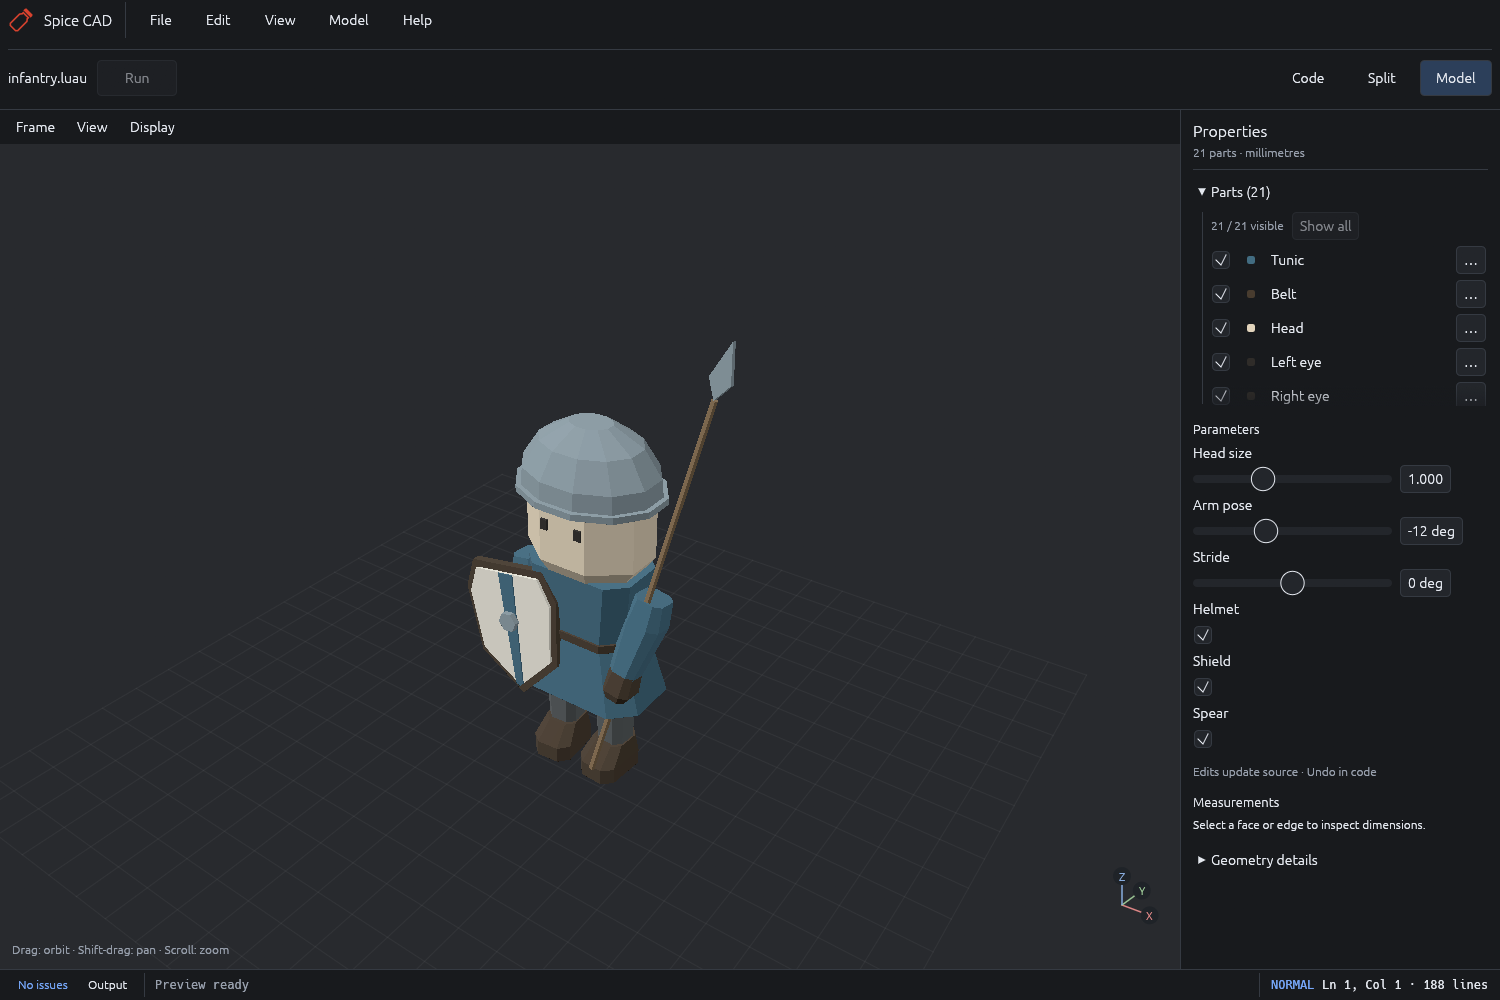
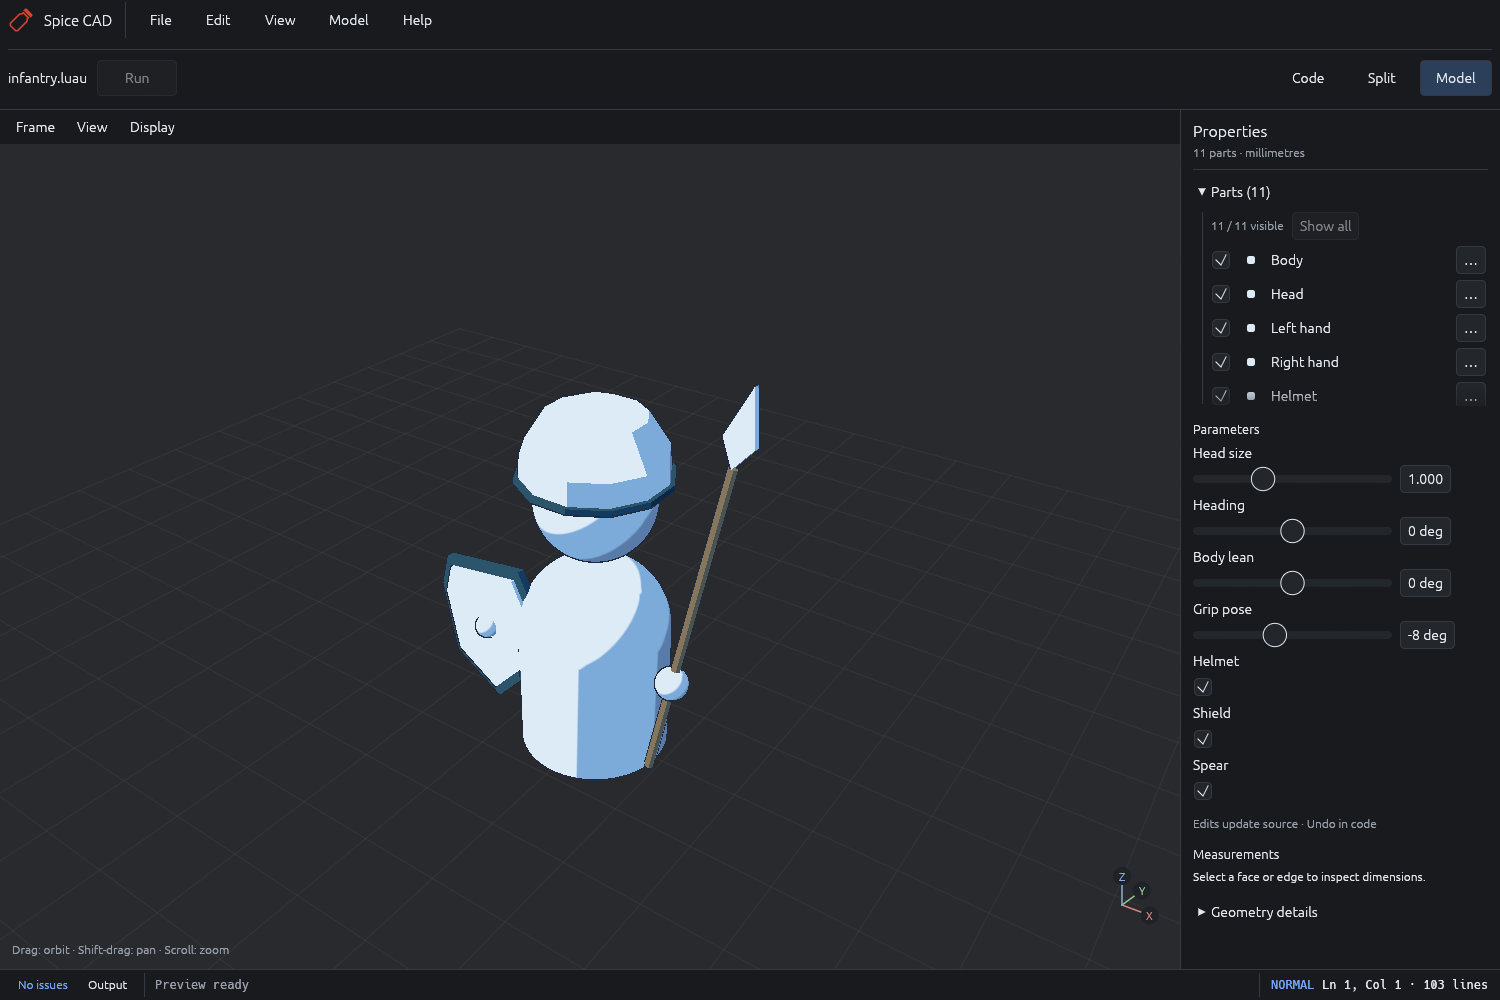
feat: add pawn-style infantry workflow

diff --git a/crates/spice-cad/src/game_asset.rs b/crates/spice-cad/src/game_asset.rs
@@ -461,14 +461,15 @@ mod tests {
             let mut cache = model::Cache::new(&kernel);
             let first = cache.compile(source)?;
             let initial = cache.prepare(&first)?;
-            assert_eq!(first.parts.len(), 21);
+            assert_eq!(first.parts.len(), 11);
+            assert_eq!(first.groups.len(), 5);
             let display = cache.display(&initial.geometry)?;
             let posed_source = source
-                .replace("cad.number(-12,", "cad.number(35,")
-                .replace("cad.number(0,", "cad.number(25,");
+                .replace("cad.number(-8,", "cad.number(30,")
+                .replace("cad.number(0,", "cad.number(10,");
             let posed = cache.compile(&posed_source)?;
             let prepared = cache.prepare(&posed)?;
-            assert_eq!(prepared.hits, 21);
+            assert_eq!(prepared.hits, 11);
             assert_eq!(prepared.build_ms, 0.0);
             assert_eq!(prepared.tessellation_ms, 0.0);
             assert!(std::sync::Arc::ptr_eq(
@@ -507,7 +508,7 @@ mod tests {
                         .map_err(|error| error.to_string())?;
                 assert_eq!(
                     document["nodes"].as_array().unwrap().len(),
-                    if equipment { 21 } else { 13 }
+                    if equipment { 16 } else { 9 }
                 );
                 let triangles: u64 = document["accessors"]
                     .as_array()
@@ -518,7 +519,7 @@ mod tests {
                     .map(|accessors| accessors[2]["count"].as_u64().unwrap() / 3)
                     .sum();
                 assert!(
-                    triangles <= 750,
+                    triangles <= 2500,
                     "{size}/{equipment}: {triangles} triangles"
                 );
                 assert!(document.get("extensionsRequired").is_none());

diff --git a/docs/modeling.md b/docs/modeling.md
@@ -386,34 +386,31 @@ nix develop -c cargo run --locked -- --export-game examples/bevels-and-shading.l
 
 ## Low-poly infantry
 
-Open **File → Examples → Low-poly infantry** for a configurable miniature soldier
-with a flared tunic, tapered limbs, oval head, domed helmet, kite shield, and
-spear. A muted blue coat, pale face, and chalk shield separate the main masses;
-the face uses two small eyes without a protruding nose. It uses authored
-eight-sided body profiles, a twelve-sided helmet, and degree-one lofts. Matching
-oval proportions between loft sections keep the facets planar. The default
-assembly has 21 named parts and 728 triangles, with shared materials and no
-texture dependencies.
+Open **File → Examples → Low-poly infantry** for an original pawn-style character
+with a rounded body and head, small detached hands, a faceted helmet, kite
+shield, and spear. Pale surfaces and blue bindings separate the main masses.
+The default GLB has 11 named parts, five attachment groups, and 1,382 triangles
+(about 79 KB), with shared materials and no texture dependencies.
 
 ![Low-poly infantry with editable proportions, pose, and equipment](images/infantry.png)
 
-**Head size** changes proportions. **Arm pose** moves the sleeves, gloves, and
-equipment together; **Stride** rotates the legs and boots at their hips. These
-pose controls change assembly placements and reuse all cached geometry and GPU
-mesh buffers. Helmet, shield, and spear have individual toggles. Hide surface
-edges in **View → Appearance** to judge the game silhouette and shading.
+**Head size** changes proportions. **Heading**, **Body lean**, and **Grip pose**
+adjust the character and its attachments while reusing all eleven cached part
+geometries and GPU mesh buffers. Helmet, shield, and spear have individual
+toggles. Enable **View → Appearance → Toon preview** for colored shadow bands
+and silhouette outlines. This affects the viewport; exports retain authored PBR
+materials.
 
-Each rigid limb and its equipment share a joint origin in their local geometry
-and matching placements. The GLB preserves those origins and placements as
-separate named nodes. This is a poseable rigid assembly, without a skeleton,
-skinning, parent hierarchy, or animation clips. Bending limbs and automatic
-equipment parenting are not implemented.
+The `Unit rig` group contains `Body pose`, which parents the head mount and two
+grips. Equipment follows its grip. GLB preserves this hierarchy and the local
+transforms as named nodes. These are rigid attachment poses; skeletons, skinning,
+and animation clips are not implemented.
 
 ```sh
 nix develop -c cargo run --locked -- --export-game examples/infantry.luau output/infantry
 ```
 
-At default proportions the soldier is 86.5 mm tall including its helmet; the
+At default proportions the character is 45 mm tall including its helmet; the
 equipped spear extends higher. GLB converts millimetres to metres, so apply a
 uniform root scale appropriate for the game's character height. Individual
 closed parts overlap intentionally; this is a game assembly rather than a
